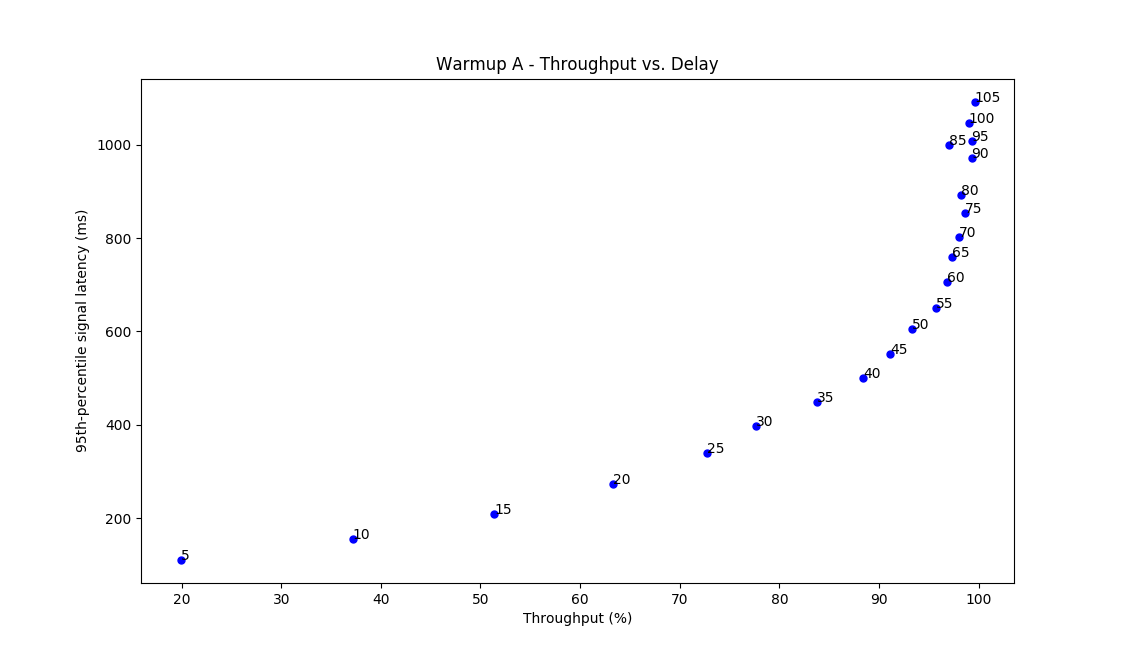
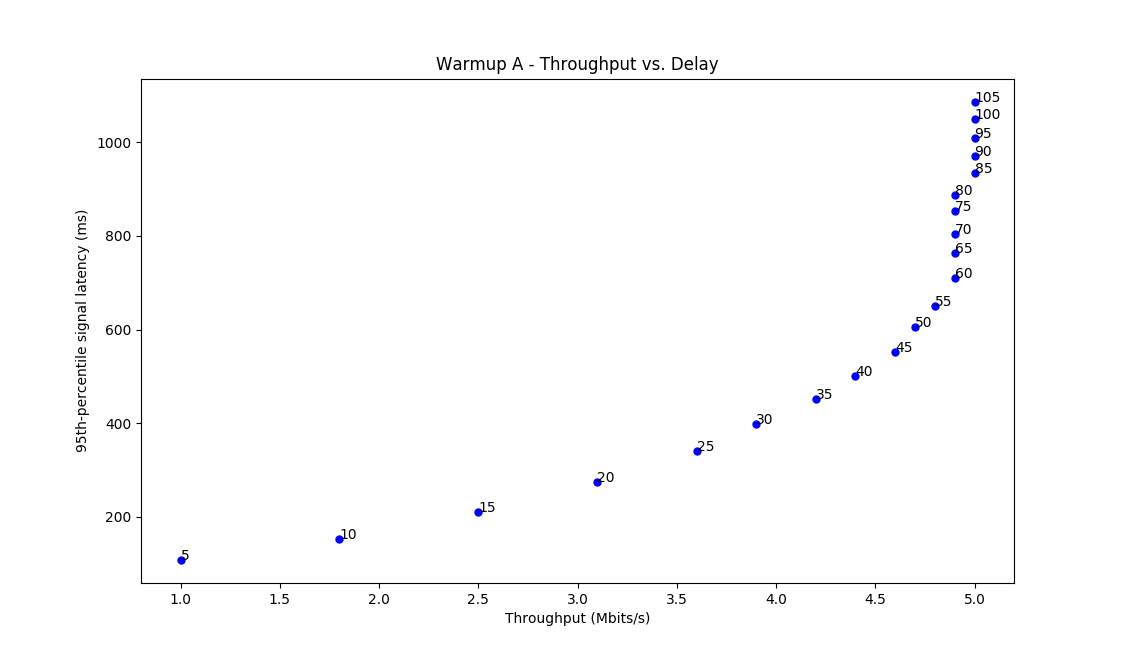
fixed bug

diff --git a/datagrump/test_warmupa.py b/datagrump/test_warmupa.py
@@ -32,9 +32,9 @@ for window_size in range(RANGE_MIN, RANGE_MAX, RANGE_STEP):
   output = complete.stderr.split('\n')
   for l in output:
     if "Average throughput" in l:
-      i1 = l.index('(')
-      i2 = l.index('%')
-      throughput = float(l[i1+1:i2])
+      i1 = l.index(':')
+      i2 = l.index(' Mbits/s')
+      throughput = float(l[i1+2:i2-1])
     if "95th percentile signal delay" in l:
       i1 = l.index(':')
       i2 = l.index('ms')
@@ -43,5 +43,5 @@ for window_size in range(RANGE_MIN, RANGE_MAX, RANGE_STEP):
   results.append((window_size, throughput, delay))
 
 print(results)
-with open('output.pickle', 'wb') as f:
+with open('warmupa_data.pickle', 'wb') as f:
   pickle.dump(results, f)

diff --git a/datagrump/visualize.py b/datagrump/visualize.py
@@ -12,7 +12,7 @@ windows, bandwidths, delays = [x[0] for x in data], \
 plt.plot(bandwidths, delays, 'bo', markersize=5)
 for d in data:
   plt.annotate(d[0], xy = (d[1], d[2]))
-plt.xlabel('Throughput (%)')
+plt.xlabel('Throughput (Mbits/s)')
 plt.ylabel('95th-percentile signal latency (ms)')
 plt.title('Warmup A - Throughput vs. Delay')
 
